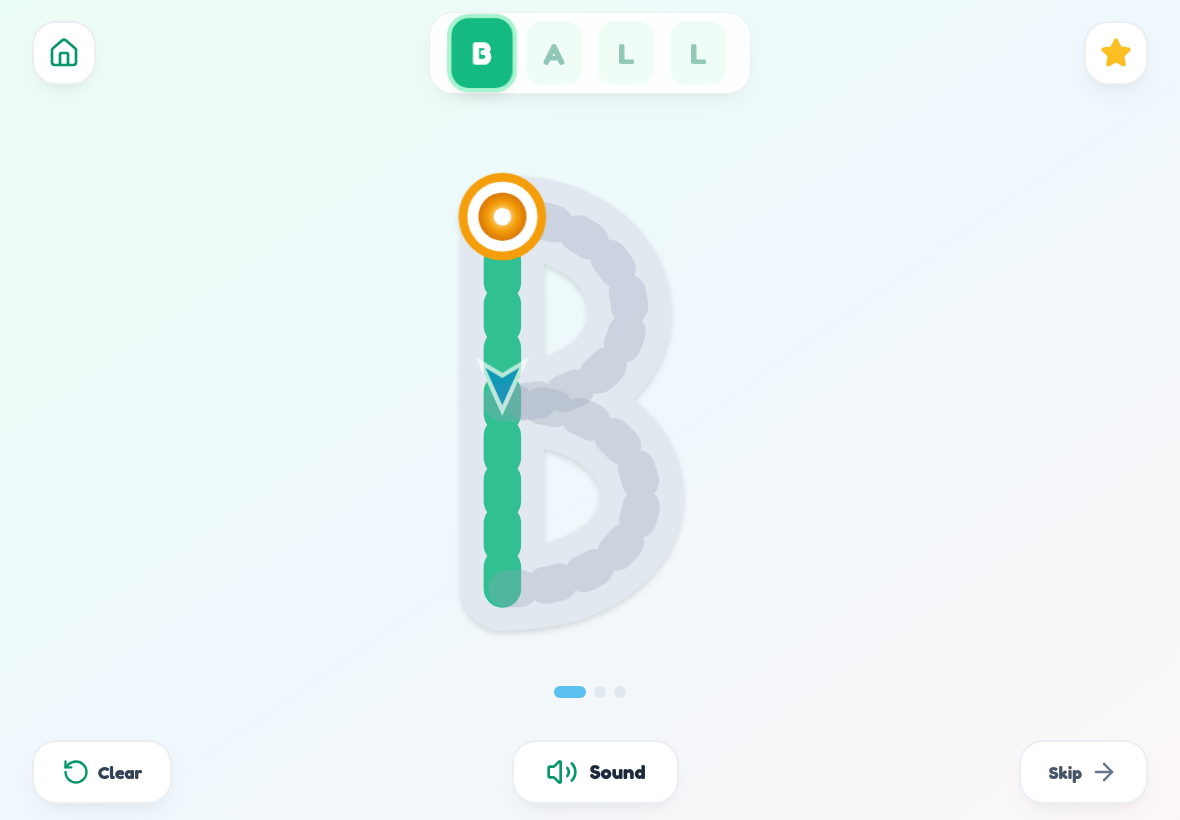
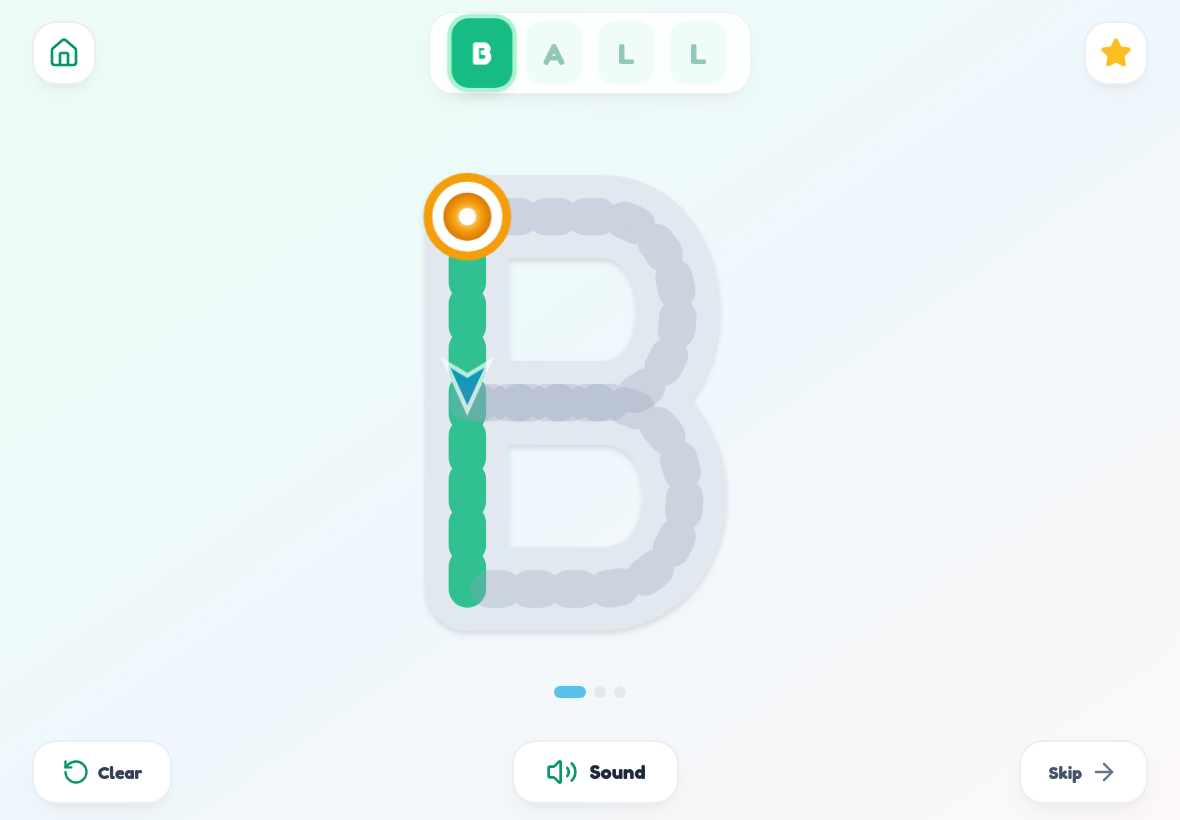
style: widen letter geometry and balance symmetry across A-Z for professional typography

Changed region(s): [[0.3356, 0.2134, 0.4881, 0.7622], [0.4881, 0.2439, 0.6102, 0.7317]]

diff --git a/src/data/letterPaths.ts b/src/data/letterPaths.ts
@@ -7,123 +7,122 @@ interface RawLetterDef {
 
 export const RAW_LETTERS: Record<string, string[]> = {
   A: [
-    'M 100 35 L 45 205',      // Left diagonal down
-    'M 100 35 L 155 205',     // Right diagonal down
-    'M 68 145 L 132 145',     // Crossbar left to right
+    'M 100 35 L 30 205',      // Left diagonal down
+    'M 100 35 L 170 205',     // Right diagonal down
+    'M 59 135 L 141 135',     // Symmetrical crossbar
   ],
   B: [
-    'M 60 35 L 60 205',                                      // Vertical down
-    'M 60 35 C 135 35, 140 120, 60 120',                    // Top loop
-    'M 60 120 C 145 120, 145 205, 60 205',                   // Bottom loop
+    'M 44 35 L 44 205',                                              // Vertical stem
+    'M 44 35 L 105 35 C 152 35, 152 120, 105 120 L 44 120',          // Upper loop
+    'M 44 120 L 105 120 C 156 120, 156 205, 105 205 L 44 205',        // Lower loop
   ],
   C: [
-    'M 155 65 C 140 35, 60 35, 55 120 C 50 195, 135 210, 155 180', // Curve
+    'M 155 65 C 138 35, 75 35, 45 75 C 28 98, 28 142, 45 165 C 75 205, 138 205, 155 175', // Smooth balanced curve
   ],
   D: [
-    'M 60 35 L 60 205',                                      // Vertical down
-    'M 60 35 C 165 35, 165 205, 60 205',                    // Big curve
+    'M 45 35 L 45 205',                                              // Vertical stem
+    'M 45 35 L 95 35 C 160 35, 160 205, 95 205 L 45 205',            // Wide balanced curve
   ],
   E: [
-    'M 60 35 L 60 205',     // Vertical stem
-    'M 60 35 L 150 35',     // Top bar
-    'M 60 120 L 135 120',   // Middle bar
-    'M 60 205 L 150 205',   // Bottom bar
+    'M 45 35 L 45 205',     // Vertical stem
+    'M 45 35 L 155 35',     // Top bar
+    'M 45 120 L 140 120',   // Middle bar
+    'M 45 205 L 155 205',   // Bottom bar
   ],
   F: [
-    'M 60 35 L 60 205',     // Vertical stem
-    'M 60 35 L 150 35',     // Top bar
-    'M 60 120 L 130 120',   // Middle bar
+    'M 45 35 L 45 205',     // Vertical stem
+    'M 45 35 L 155 35',     // Top bar
+    'M 45 120 L 140 120',   // Middle bar
   ],
   G: [
-    'M 155 65 C 140 35, 60 35, 55 120 C 50 195, 140 210, 155 175 L 155 125', // Curve and right wall
-    'M 155 125 L 115 125',                                                     // Cross inward
+    'M 155 65 C 138 35, 75 35, 45 75 C 28 98, 28 142, 45 165 C 75 205, 138 205, 155 170 L 155 120', // Outer curve
+    'M 155 120 L 110 120',                                                                           // Horizontal cross
   ],
   H: [
-    'M 55 35 L 55 205',     // Left stem
-    'M 145 35 L 145 205',   // Right stem
-    'M 55 120 L 145 120',   // Middle bar
+    'M 45 35 L 45 205',     // Left stem
+    'M 155 35 L 155 205',   // Right stem
+    'M 45 120 L 155 120',   // Centered crossbar
   ],
   I: [
-    'M 60 35 L 140 35',     // Top bar
+    'M 45 35 L 155 35',     // Top bar
     'M 100 35 L 100 205',   // Center stem
-    'M 60 205 L 140 205',   // Bottom bar
+    'M 45 205 L 155 205',   // Bottom bar
   ],
   J: [
-    'M 65 35 L 145 35',                                      // Top bar
-    'M 125 35 L 125 155 C 125 215, 65 215, 60 170',         // Hook down and up
+    'M 45 35 L 155 35',                              // Top bar
+    'M 130 35 L 130 155 C 130 205, 55 205, 55 165',  // Stem and smooth hook
   ],
   K: [
-    'M 60 35 L 60 205',     // Left stem
-    'M 145 45 L 60 125',    // Upper diagonal
-    'M 80 108 L 150 205',   // Lower diagonal
+    'M 45 35 L 45 205',     // Vertical stem
+    'M 155 35 L 45 120',    // Upper diagonal
+    'M 65 105 L 155 205',   // Lower diagonal
   ],
   L: [
-    'M 65 35 L 65 205',     // Vertical stem
-    'M 65 205 L 150 205',   // Bottom bar
+    'M 45 35 L 45 205',     // Vertical stem
+    'M 45 205 L 155 205',   // Generous bottom bar
   ],
   M: [
-    'M 48 205 L 48 35',     // Left stem up
-    'M 48 35 L 100 145',    // Diagonal down
-    'M 100 145 L 152 35',   // Diagonal up
-    'M 152 35 L 152 205',   // Right stem down
+    'M 28 205 L 28 35',     // Left stem up
+    'M 28 35 L 100 165',    // Diagonal down to center
+    'M 100 165 L 172 35',   // Diagonal up to right
+    'M 172 35 L 172 205',   // Right stem down
   ],
   N: [
-    'M 52 205 L 52 35',     // Left stem up
-    'M 52 35 L 148 205',    // Diagonal down
-    'M 148 205 L 148 35',   // Right stem up
+    'M 35 205 L 35 35',     // Left stem up
+    'M 35 35 L 165 205',    // Diagonal down
+    'M 165 205 L 165 35',   // Right stem up
   ],
   O: [
-    // Two half-arcs for easier tracing and clear start point at top
-    'M 100 35 C 45 35, 45 205, 100 205',   // Left half counter-clockwise
-    'M 100 205 C 155 205, 155 35, 100 35', // Right half up to top
+    'M 100 35 C 45 35, 28 75, 28 120 C 28 165, 45 205, 100 205',   // Left half (top to bottom)
+    'M 100 205 C 155 205, 172 165, 172 120 C 172 75, 155 35, 100 35', // Right half (bottom to top)
   ],
   P: [
-    'M 60 35 L 60 205',                    // Stem down
-    'M 60 35 C 145 35, 145 125, 60 125',   // Top loop
+    'M 45 35 L 45 205',                                              // Vertical stem
+    'M 45 35 L 105 35 C 155 35, 155 120, 105 120 L 45 120',          // Symmetrical upper loop
   ],
   Q: [
-    'M 100 35 C 45 35, 45 205, 100 205',   // Left half
-    'M 100 205 C 155 205, 155 35, 100 35', // Right half
-    'M 115 155 L 160 210',                  // Tail
+    'M 100 35 C 45 35, 28 75, 28 120 C 28 165, 45 205, 100 205',   // Left half
+    'M 100 205 C 155 205, 172 165, 172 120 C 172 75, 155 35, 100 35', // Right half
+    'M 115 145 L 168 205',                                          // Diagonal tail
   ],
   R: [
-    'M 60 35 L 60 205',                    // Stem down
-    'M 60 35 C 145 35, 145 125, 60 125',   // Top loop
-    'M 100 125 L 150 205',                 // Leg
+    'M 45 35 L 45 205',                                              // Vertical stem
+    'M 45 35 L 105 35 C 155 35, 155 120, 105 120 L 45 120',          // Loop
+    'M 95 120 L 155 205',                                            // Leg
   ],
   S: [
-    'M 148 65 C 135 35, 65 35, 65 80 C 65 140, 145 125, 145 170 C 145 215, 65 215, 52 180',
+    'M 152 68 C 140 35, 58 35, 58 78 C 58 120, 142 120, 142 162 C 142 205, 60 205, 48 172', // Balanced S curve
   ],
   T: [
-    'M 40 35 L 160 35',     // Top bar
-    'M 100 35 L 100 205',   // Center stem
+    'M 25 35 L 175 35',     // Wide top bar
+    'M 100 35 L 100 205',   // Centered vertical stem
   ],
   U: [
-    'M 55 35 L 55 145 C 55 215, 145 215, 145 145 L 145 35', // Down, curve, up
+    'M 42 35 L 42 145 C 42 205, 158 205, 158 145 L 158 35', // Symmetric U curve
   ],
   V: [
-    'M 45 35 L 100 205',    // Diagonal down
-    'M 100 205 L 155 35',   // Diagonal up
+    'M 32 35 L 100 205',    // Diagonal down
+    'M 100 205 L 168 35',   // Diagonal up
   ],
   W: [
-    'M 42 35 L 68 205',     // Slant down
-    'M 68 205 L 100 95',    // Slant up
-    'M 100 95 L 132 205',   // Slant down
-    'M 132 205 L 158 35',   // Slant up
+    'M 20 35 L 56 205',     // Left diagonal down
+    'M 56 205 L 100 95',    // First diagonal up
+    'M 100 95 L 144 205',   // Second diagonal down
+    'M 144 205 L 180 35',   // Right diagonal up
   ],
   X: [
-    'M 50 35 L 150 205',    // Diagonal top-left to bottom-right
-    'M 150 35 L 50 205',    // Diagonal top-right to bottom-left
+    'M 30 35 L 170 205',    // Diagonal top-left to bottom-right
+    'M 170 35 L 30 205',    // Diagonal top-right to bottom-left
   ],
   Y: [
-    'M 48 35 L 100 115',    // Left slant to center
-    'M 152 35 L 100 115',   // Right slant to center
-    'M 100 115 L 100 205',  // Center stem down
+    'M 32 35 L 100 120',    // Left slant to center
+    'M 168 35 L 100 120',   // Right slant to center
+    'M 100 120 L 100 205',  // Center vertical stem down
   ],
   Z: [
-    'M 50 40 L 150 40',     // Top bar
-    'M 150 40 L 50 205',    // Diagonal down-left
-    'M 50 205 L 150 205',   // Bottom bar
+    'M 35 35 L 165 35',     // Top bar
+    'M 165 35 L 35 205',    // Symmetrical diagonal
+    'M 35 205 L 165 205',   // Bottom bar
   ],
 };
 
